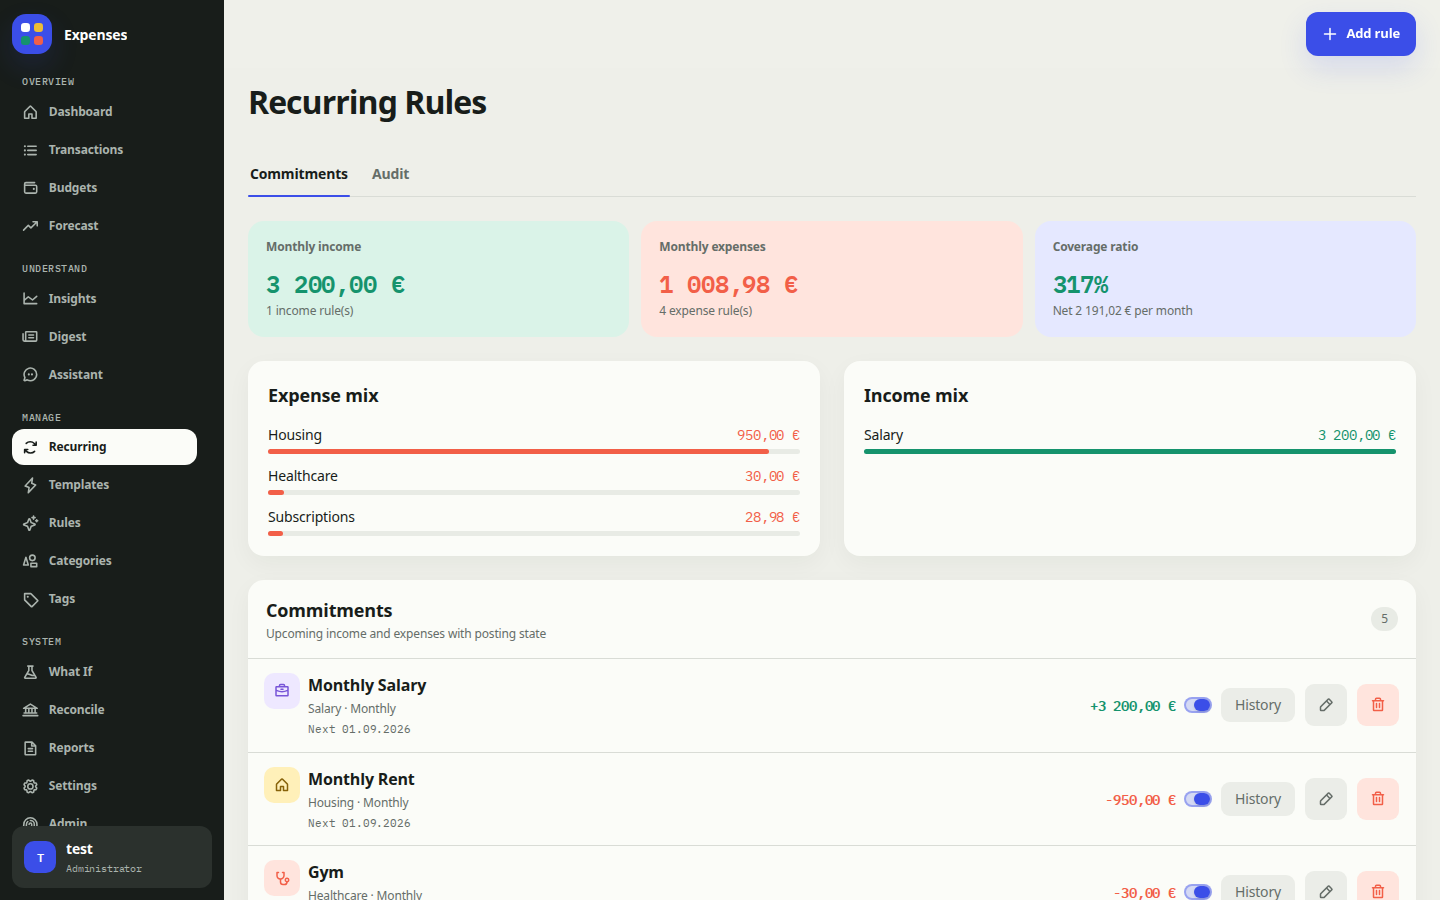
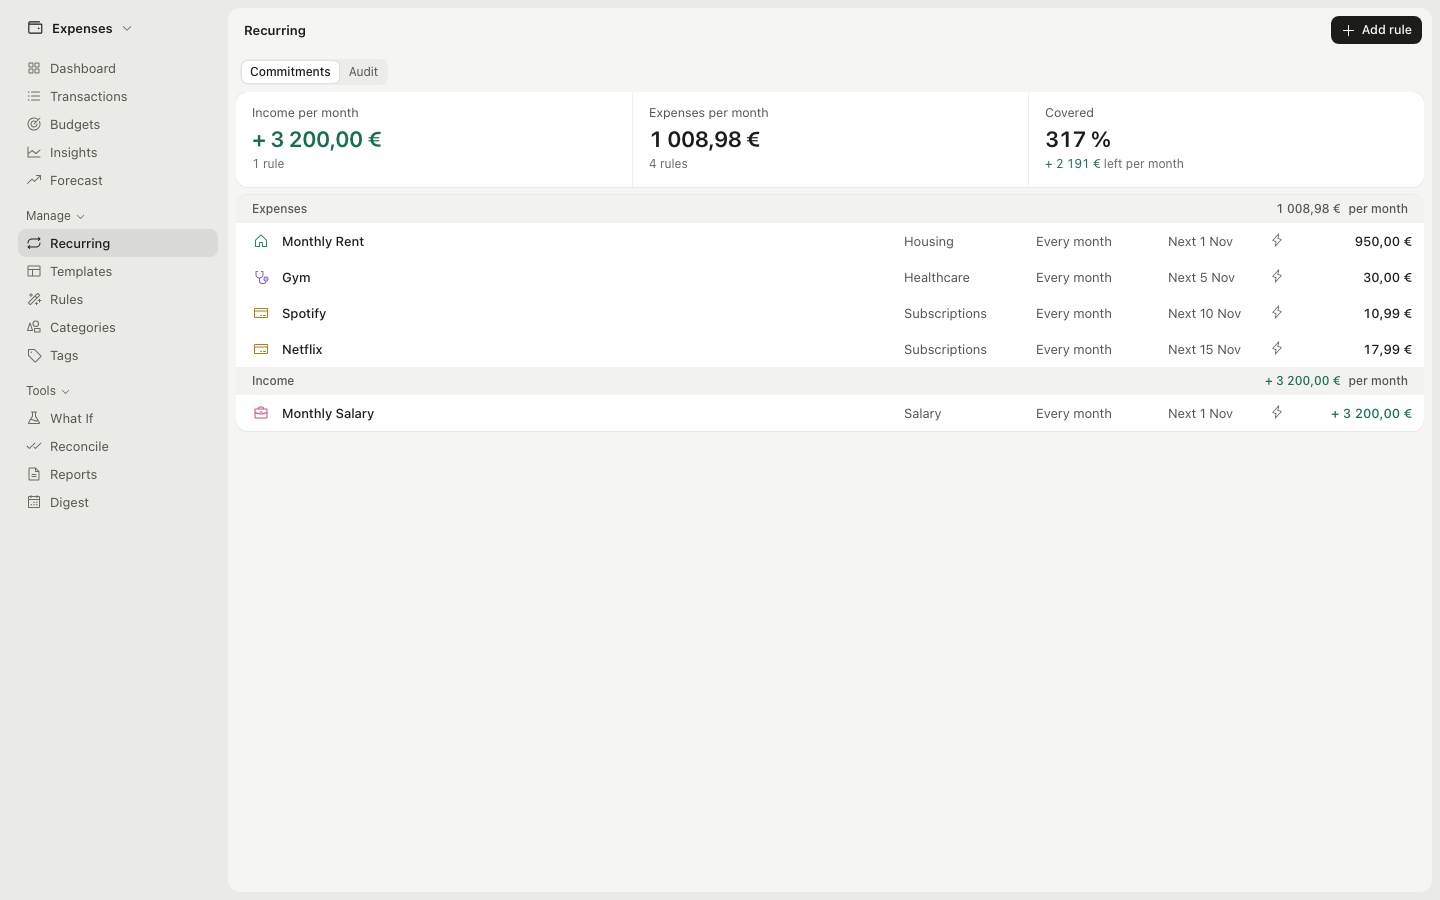
Retake the README screenshots for the redesign
Also points the automatic categorization setting at its new Settings section.

diff --git a/README.md b/README.md
@@ -59,7 +59,7 @@ Add salary, rent, subscriptions, and other regular payments once. Expenses can p
 
 Rules take care of repeated sorting. Match a title, amount, or transaction type, then apply a category and tags to new or existing entries. If you enable LLM help, Expenses can suggest rules from your history; you still review them before they take effect.
 
-For local automatic categorization, enable **Settings → Automatic categorization**
+For local automatic categorization, enable **Automatic categorization** in **Settings → Categorization**
 (**Account → Automatic Categorization** on iOS). It is off by default for each user.
 The recommended minimum confidence is **80%**; a higher value leaves more
 expenses uncategorized. Confidence estimates can still be wrong.
